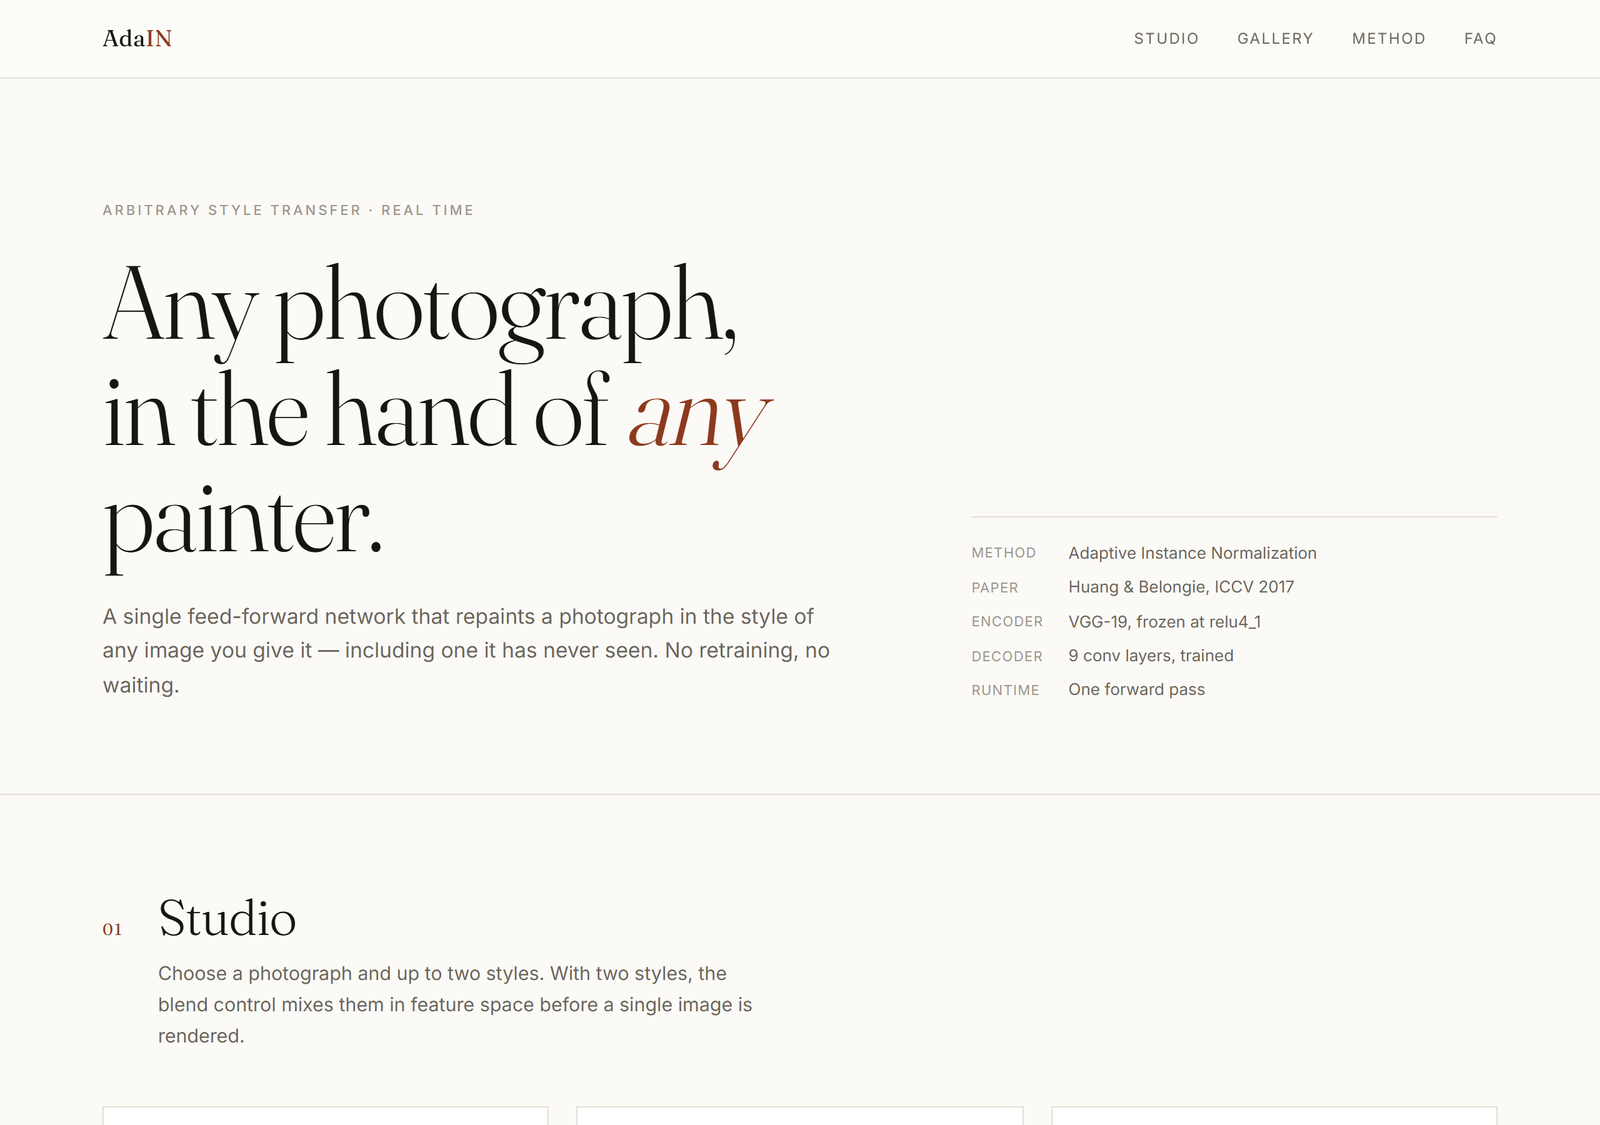
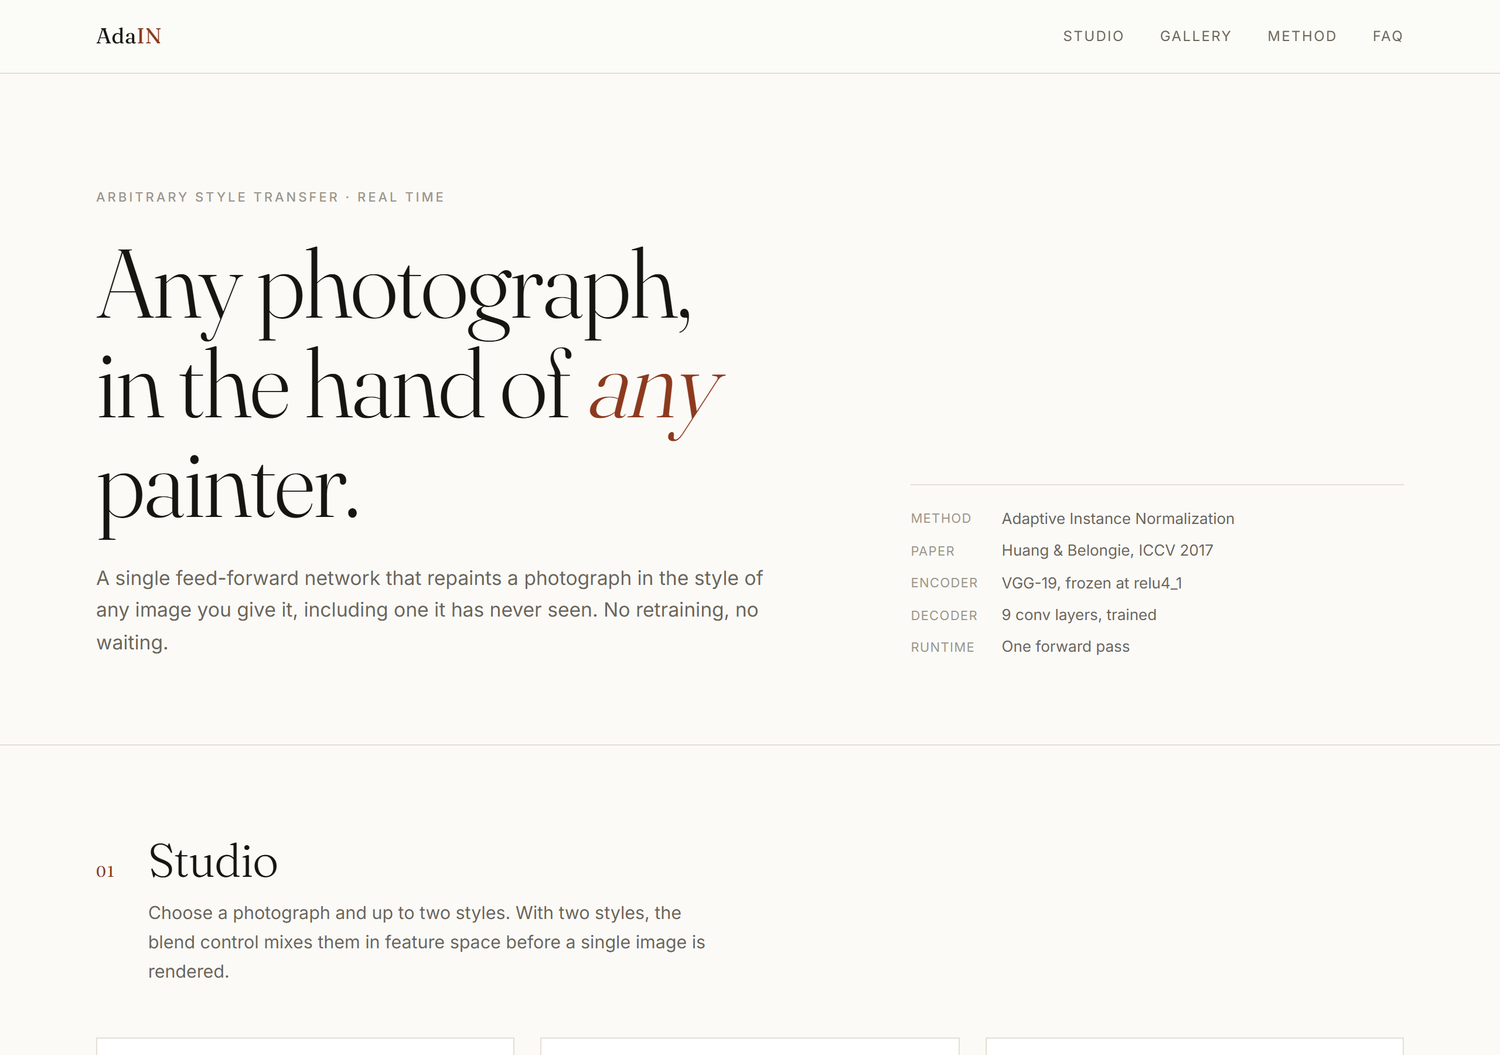
Document every interface section in the README
Adds screenshots for the Gallery, Method, Questions and Footer sections, so the
README now walks through the whole page in order rather than showing three views.

- docs/: four new section screenshots; landing, studio and result recaptured
- the sticky navbar is hidden during element capture, which previously floated
  across the middle of the Gallery screenshot
- README: Screenshots section restructured into seven captioned views
- all screenshots resized to 1500 px and re-encoded, docs/ totals 4.9 MB

Changed region(s): [[0.2147, 0.546, 0.5213, 0.6066]]

diff --git a/README.md b/README.md
@@ -231,18 +231,53 @@ For reference, the original paper reports 0.065 s at 512 px on a Pascal Titan X 
 
 ## Screenshots
 
-**Landing page**: method summary and model configuration
+Every section of the interface, in page order.
+
+### Landing
+
+The header states the method, the source paper, and the exact model configuration, so a
+visitor knows what they are looking at before scrolling.
 
 ![Landing page](docs/screenshot-landing.png)
 
-**Studio**: three upload slots with live previews, plus the style-blend and style-strength
-controls. The blend control is enabled only once a second style is chosen.
+### 01 Studio
 
-![Studio](docs/screenshot-studio.png)
+Three upload slots with live previews. Style B is optional, and the style-blend control stays
+disabled until a second style is chosen. Style strength and the result title are set here too.
 
-**Result**: the rendered output, labelled with the inputs and parameters used to produce it
+![Studio section](docs/screenshot-studio.png)
 
-![Result](docs/screenshot-result.png)
+### Result
+
+The rendered output, labelled with the inputs and the exact parameters that produced it, plus
+a download link.
+
+![Rendered result](docs/screenshot-result.png)
+
+### 02 Gallery
+
+Two worked examples, each pairing the same photograph with a different style. Neither style
+was seen during training.
+
+![Gallery section](docs/screenshot-gallery.png)
+
+### 03 Method
+
+The four stages of the pipeline, with the AdaIN equation.
+
+![Method section](docs/screenshot-method.png)
+
+### 04 Questions
+
+Answers to what the model is, what is pretrained, and what the runtime controls do.
+
+![Questions section](docs/screenshot-faq.png)
+
+### Footer
+
+Navigation and the four papers the implementation is based on.
+
+![Footer](docs/screenshot-footer.png)
 
 ## Installation
 
